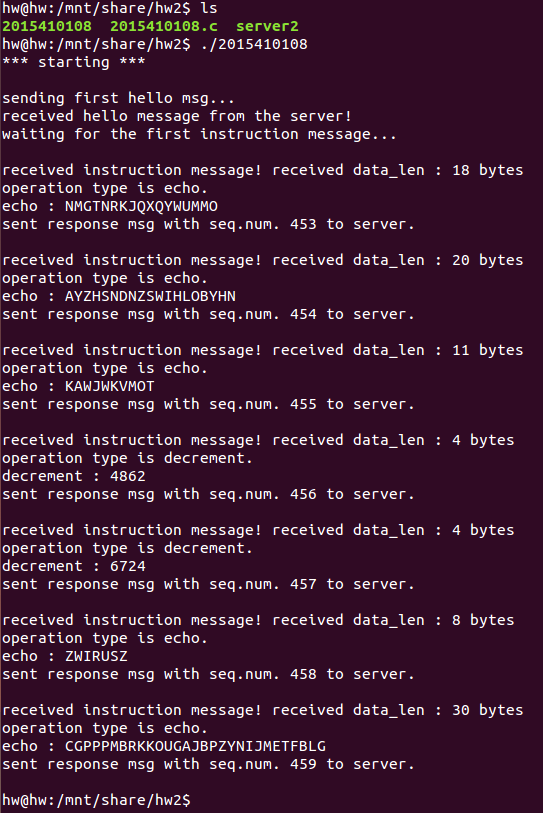
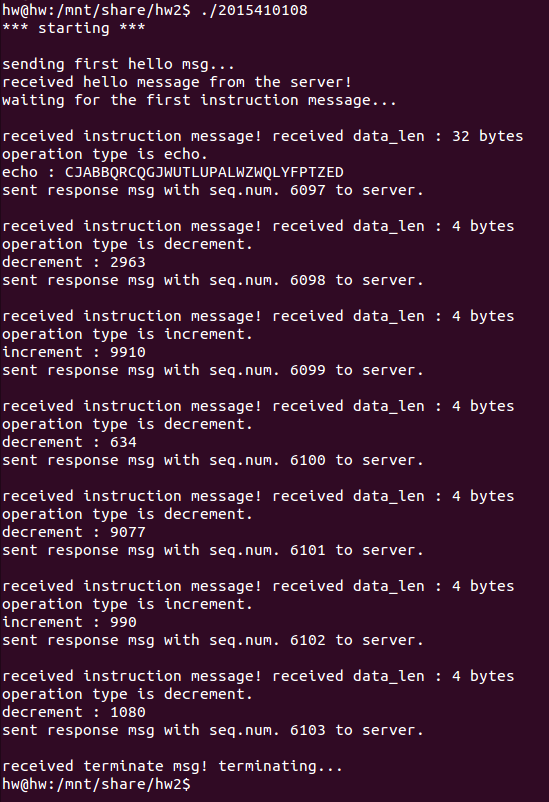
20171105

diff --git a/hw2/2015410108.c b/hw2/2015410108.c
@@ -154,6 +154,7 @@ int main(void) {
 
             recv(s, buf_get,1023,0);
     	}
+    	printf("received terminate msg! terminating...\n");
     }
 
     close(s);
